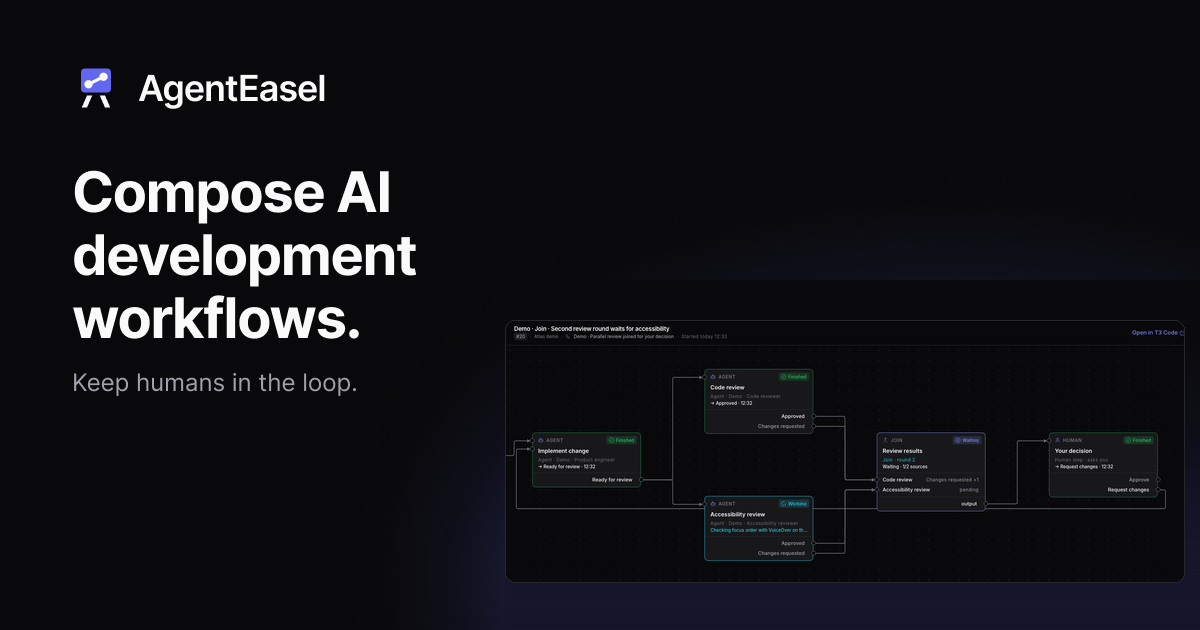
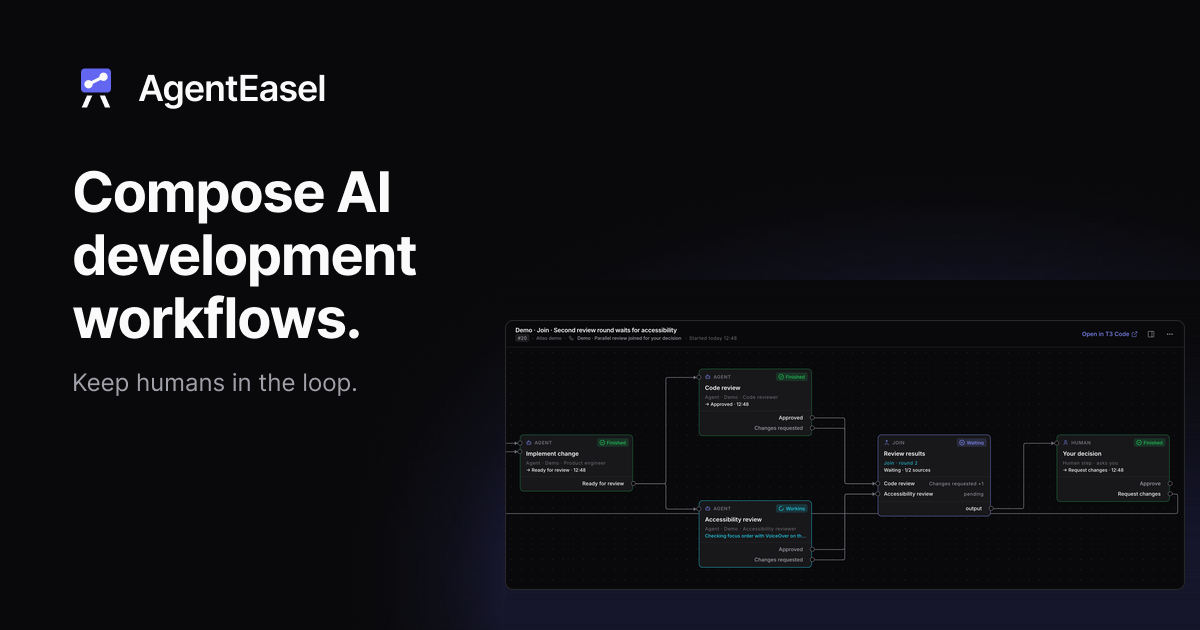
fix(landing): sharpen and enlarge the hero crops, with an alt text per crop
Recapture both hero crops at 2x from the isolated fixture: the desktop crop
frames the whole Flow in a 1440 px Run pane, and the phone crop shows Review
results -> Your decision at 75% canvas zoom with the Run header at native size.
Let the hero card use 16 px side gutters, serve the phone crop below md with
its own alt text, rebuild og-image.png from the new crop and describe the
depicted Flow in its alt text.

diff --git a/apps/landing/index.html b/apps/landing/index.html
@@ -28,7 +28,7 @@
     <meta property="og:image:height" content="630" />
     <meta
       property="og:image:alt"
-      content="AgentEasel: Compose AI development workflows. Keep humans in the loop. Beside it, a Run detail screen where a Coder hands its work to a Code reviewer."
+      content="AgentEasel: Compose AI development workflows. Keep humans in the loop. Beside it, an AgentEasel Run canvas where Implement change branches into parallel Code review and Accessibility review Agents, which feed the Review results Join block before Your decision, a Human step."
     />
     <meta name="twitter:card" content="summary_large_image" />
     <meta name="twitter:title" content="AgentEasel: compose AI development workflows" />
@@ -116,24 +116,27 @@
         <p class="mt-6 text-[13px] text-zinc-500">
           v%FACTORY_VERSION% · Apple Silicon · signed &amp; notarized .dmg · MIT licensed
         </p>
-        <div
-          class="mx-auto mt-20 max-w-[1200px] overflow-hidden rounded-xl border border-zinc-800 bg-[#0c0c0e] shadow-[0_24px_96px_rgb(99_102_242/0.18)]"
-        >
-          <picture>
-            <source
-              media="(max-width: 639px)"
-              srcset="/screens/run-detail-mobile.png"
-              width="680"
-              height="560"
-            />
+        <div class="mt-20 -mx-2 md:-mx-12">
+          <div
+            class="mx-auto max-w-[1200px] overflow-hidden rounded-xl border border-zinc-800 bg-[#0c0c0e] shadow-[0_24px_96px_rgb(99_102_242/0.18)]"
+          >
             <img
               src="/screens/run-detail.png"
-              width="1500"
-              height="580"
+              width="2880"
+              height="1140"
+              loading="lazy"
               alt="An AgentEasel Run in dark mode, with its header above the Run canvas: Implement change branches into parallel Code review and Accessibility review Agents, which feed the Review results Join block, followed by Your decision, a Human step."
-              class="block h-auto w-full"
+              class="hidden h-auto w-full md:block"
             />
-          </picture>
+            <img
+              src="/screens/run-detail-mobile.png"
+              width="960"
+              height="800"
+              loading="lazy"
+              alt="An AgentEasel Run in dark mode, with its header above the end of the Run canvas: the Review results Join block, waiting for 1 of 2 review sources, leads to Your decision, a Human step."
+              class="block h-auto w-full md:hidden"
+            />
+          </div>
         </div>
       </section>
 

diff --git a/docs/release.md b/docs/release.md
@@ -83,7 +83,7 @@ GitHub Actions owns the production deployment at `https://agenteasel.app/`. The 
 
 The old `t3factory.app` domain is attached to the same project, and `vercel.json` permanently redirects every path on that host to `agenteasel.app`. Analytics batches that T3 Factory builds still send to `t3factory.app/ingest` are answered with that redirect, which those builds treat as a dropped batch.
 
-The product screenshots in `apps/landing/public/screens/` are dark-mode captures of the running application (1472×920, 16:10) taken against the isolated demo fixture. The hero is the exception: `run-detail.png` (1500×580) crops the Run header and canvas of the seeded `join-partial` Run, and `run-detail-mobile.png` (680×560) pans the same Run to Review results → Your decision for phone widths. `apps/landing/public/og-image.png` (1200×630) pairs the hero crop with the brand header. Refresh those assets in `apps/landing/public` when major product or UI changes land.
+The product screenshots in `apps/landing/public/screens/` are dark-mode captures of the running application (1472×920, 16:10) taken against the isolated demo fixture. The hero is the exception: `run-detail.png` (2880×1140, a 2× capture of a 1440 px wide Run pane) crops the Run header and canvas of the seeded `join-partial` Run, and `run-detail-mobile.png` (960×800, a 2× capture of a 480 px wide Run pane at 75% canvas zoom) shows the same Run's Review results → Your decision below the `md` breakpoint. `apps/landing/public/og-image.png` (1200×630) pairs the hero crop with the brand header. Refresh those assets in `apps/landing/public` when major product or UI changes land.
 
 #### Vercel setup
 
